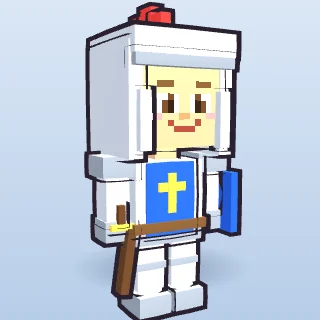
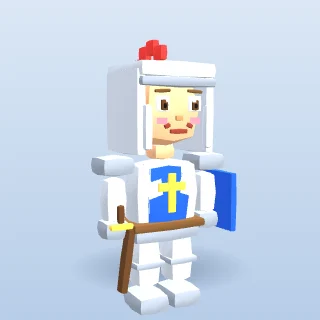
Redraw classic picker pictures for the soft look (preview v303)

Changed region(s): [[0.25, 0.0, 0.7812, 1.0]]

diff --git a/play.html b/play.html
@@ -21137,9 +21137,9 @@ function refreshAvatarPreviews() {
   const suffix = classicHeroes() ? '-classic' : '';
   document.querySelectorAll('#avatarGrid img[data-avatar-id]').forEach(img => {
     const base = 'avatars/previews/' + img.dataset.avatarId;
-    const src = base + suffix + '.webp?v=301';
+    const src = base + suffix + '.webp?v=303';
     if (img.getAttribute('src') === src) return;
-    img.onerror = () => { img.onerror = null; img.src = base + '-classic.webp?v=301'; };
+    img.onerror = () => { img.onerror = null; img.src = base + '-classic.webp?v=303'; };
     img.src = src;
   });
 }

diff --git a/avatars/previews/README.md b/avatars/previews/README.md
@@ -5,8 +5,8 @@ and procedural character builders. They replace full GLB downloads and a second
 WebGL renderer in the character picker. In-game models and animation are unchanged.
 
 The 22 standard portraits total 170,380 bytes. Including all 22 classic portraits,
-the total is 373,956 bytes (the classic set was redrawn in v301 for the new blocky
-style: pixel faces and dark outlines). Previously the picker requested 22 GLB URLs on page
+the total is 317,144 bytes (the classic set was redrawn in v303 to match Queen Fox and
+the dragon: soft rounded blocks, 3D eyes, no dark outlines; those two pictures are unchanged). Previously the picker requested 22 GLB URLs on page
 load; the 16 existing files total 116,965,964 bytes (six requests had no model).
 These are asset sizes, not a measured tablet speedup.
 
@@ -17,7 +17,7 @@ builders, GLB preparation, original camera and lighting. Each resulting image ha
 a `data-file` filename and a WebP data URL. Save the results in this directory and
 update the preview URL version in `refreshAvatarPreviews()` when replacing them.
 Classic pictures use a slightly higher, wider camera than studio pictures, because
-the blocky heroes have big cube heads and tall hair, hats and ears. Every hero gets a
+the classic heroes have tall hair, hats and ears. Every hero gets a
 classic picture (hidden ones too, for old saves and town friends); a studio picture is
 only redrawn when that hero has a model file.
 
